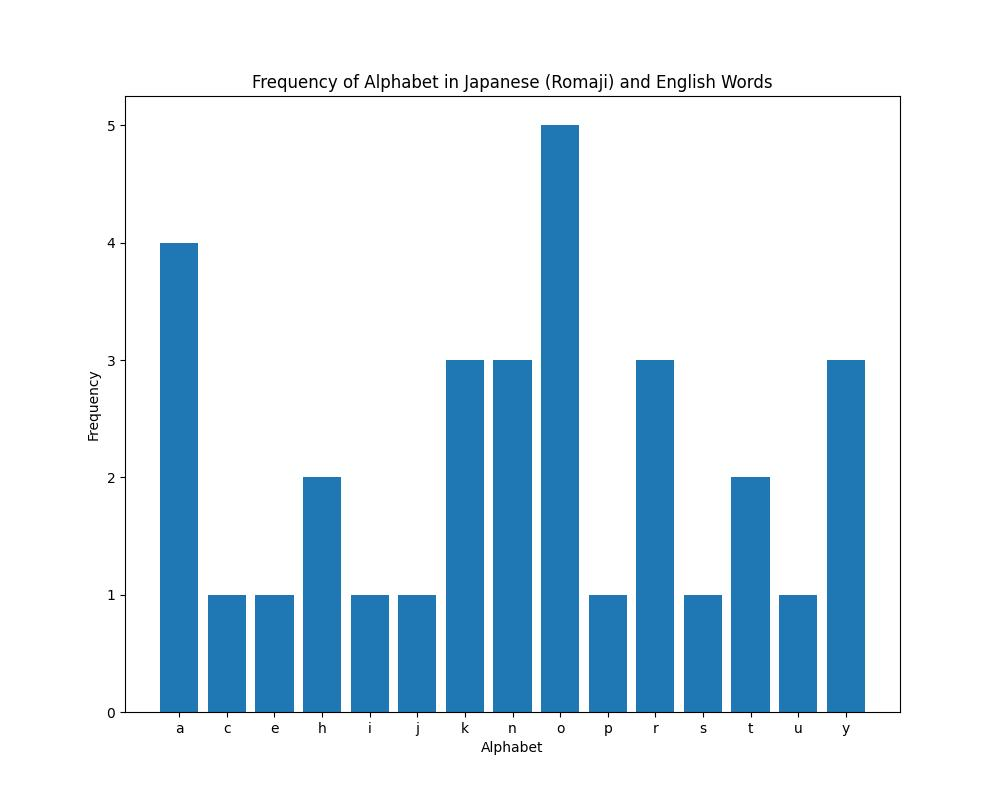
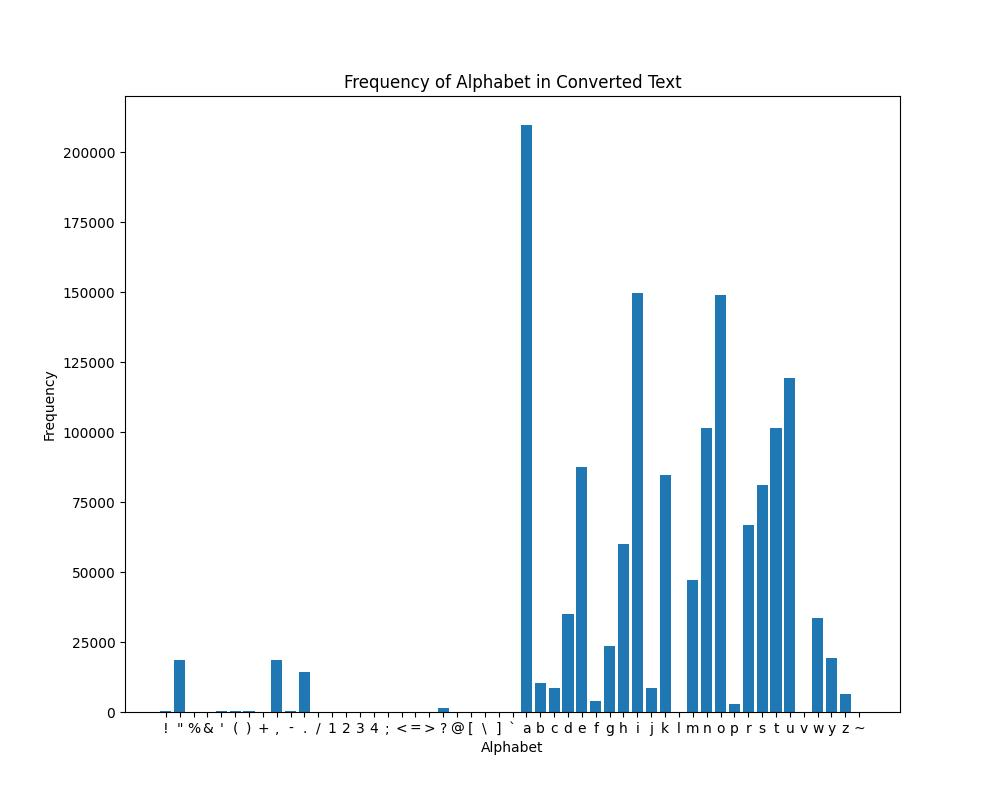
だいたい出来た

diff --git a/src/relay/pre_process.py b/src/relay/pre_process.py
@@ -1,0 +1,46 @@
+import os
+import re
+
+# ディレクトリと出力ファイルのパスを指定
+directory_path = "./"  # 'your_directory'は対象のディレクトリ名に置き換えてください
+output_file_path = "./dataset.txt"
+
+
+# 前処理関数
+def preprocess_text(text):
+    # 1行目のタイトルを削除
+    lines = text.split("\n")[1:]
+    # 不要な記号を削除し、漢字、ひらがな、カタカナのみを保持
+    processed_lines = []
+    for line in lines:
+        if line.strip() and not line.startswith(
+            "************************************************"
+        ):
+            # 不要な記号を除去
+            line = re.sub(
+                r"[^\u3000-\u303f\uff00-\uffef\u4e00-\u9faf\u3040-\u309f\u30a0-\u30ff]",
+                "",
+                line,
+            )
+            processed_lines.append(line.strip())
+
+    return "\n".join(processed_lines)
+
+
+# 出力ファイルを開き、書き込みモードで準備
+with open(output_file_path, "w", encoding="utf-8") as output_file:
+    # 指定されたディレクトリ内のすべてのtxtファイルを処理
+    for filename in os.listdir(directory_path):
+        if filename.endswith(".txt"):
+            # ファイルパスの構築
+            file_path = os.path.join(directory_path, filename)
+            # ファイルの読み込み
+            with open(file_path, "r", encoding="utf-8") as file:
+                text = file.read()
+                # テキストの前処理
+                processed_text = preprocess_text(text)
+                # 処理済みテキストの出力ファイルへの書き込み
+                output_file.write(processed_text + "\n\n")  # ファイル間に空行を挿入
+
+# 出力ファイルのパスを表示（確認用）
+print(f"Processed texts have been combined and saved to: {output_file_path}")

diff --git a/src/relay/gen_graph.py b/src/relay/gen_graph.py
@@ -1,15 +1,17 @@
 import matplotlib.pyplot as plt
 from collections import Counter
 
-# 日本語単語リストと英単語リストの例（ローマ字と英単語）
-ja_words = ["nihon", "tokyo", "sakura"]  # ローマ字での日本語単語
-en_words = ["japan", "tokyo", "cherry"]  # 英単語
+# 処理後のテキストファイルのパス
+file_path = "alphabet.txt"
 
-# 両方のリストを結合
-words = ja_words + en_words
+# ファイルからテキストを読み込み
+with open(file_path, "r", encoding="utf-8") as file:
+    text = file.read()
+
+total_characters = len(text.replace("\n", "").replace(" ", ""))
 
 # アルファベットの出現頻度を計算
-alphabet_count = Counter("".join(words))
+alphabet_count = Counter(text.replace("\n", "").replace(" ", "").lower())
 
 # アルファベットと出現回数のリストを取得し、アルファベット順にソート
 alphabet, counts = zip(*sorted(alphabet_count.items()))
@@ -19,5 +21,7 @@ plt.figure(figsize=(10, 8))
 plt.bar(alphabet, counts)
 plt.xlabel("Alphabet")
 plt.ylabel("Frequency")
-plt.title("Frequency of Alphabet in Japanese (Romaji) and English Words")
+plt.title("Frequency of Alphabet in Converted Text")
 plt.savefig("./graph.jpg")
+
+print(f"Total characters (excluding spaces and newlines): {total_characters}")

diff --git a/src/relay/ja2alpha.py b/src/relay/ja2alpha.py
@@ -1,0 +1,17 @@
+import cutlet
+
+katsu = cutlet.Cutlet()
+katsu.use_foreign_spelling = False
+
+input_file_path = "dataset.txt"
+output_file_path = "alphabet.txt"
+
+with open(input_file_path, "r", encoding="utf-8") as input_file:
+    text = input_file.read()
+
+converted_text = katsu.romaji(text)
+
+with open(output_file_path, "w", encoding="utf-8") as output_file:
+    output_file.write(converted_text)
+
+print("処理終了")
